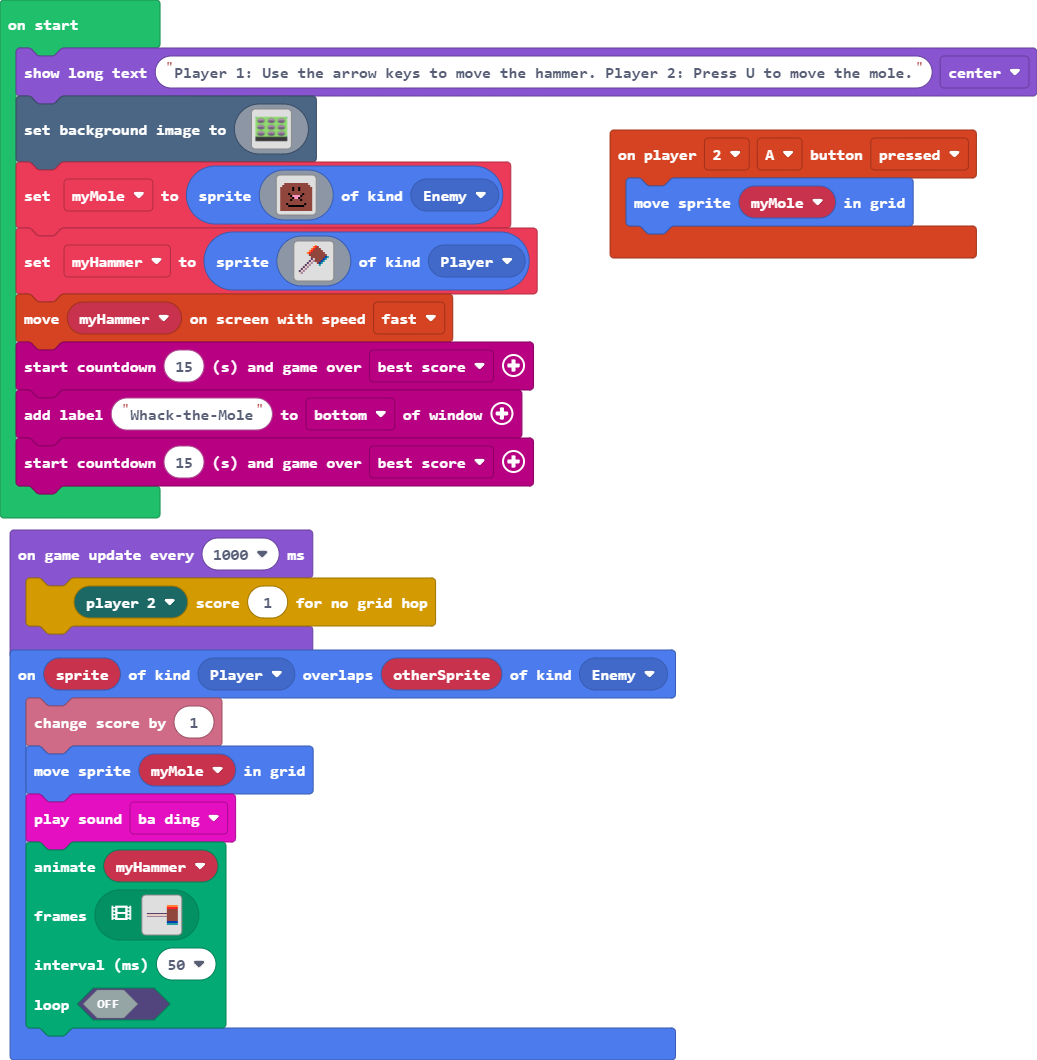
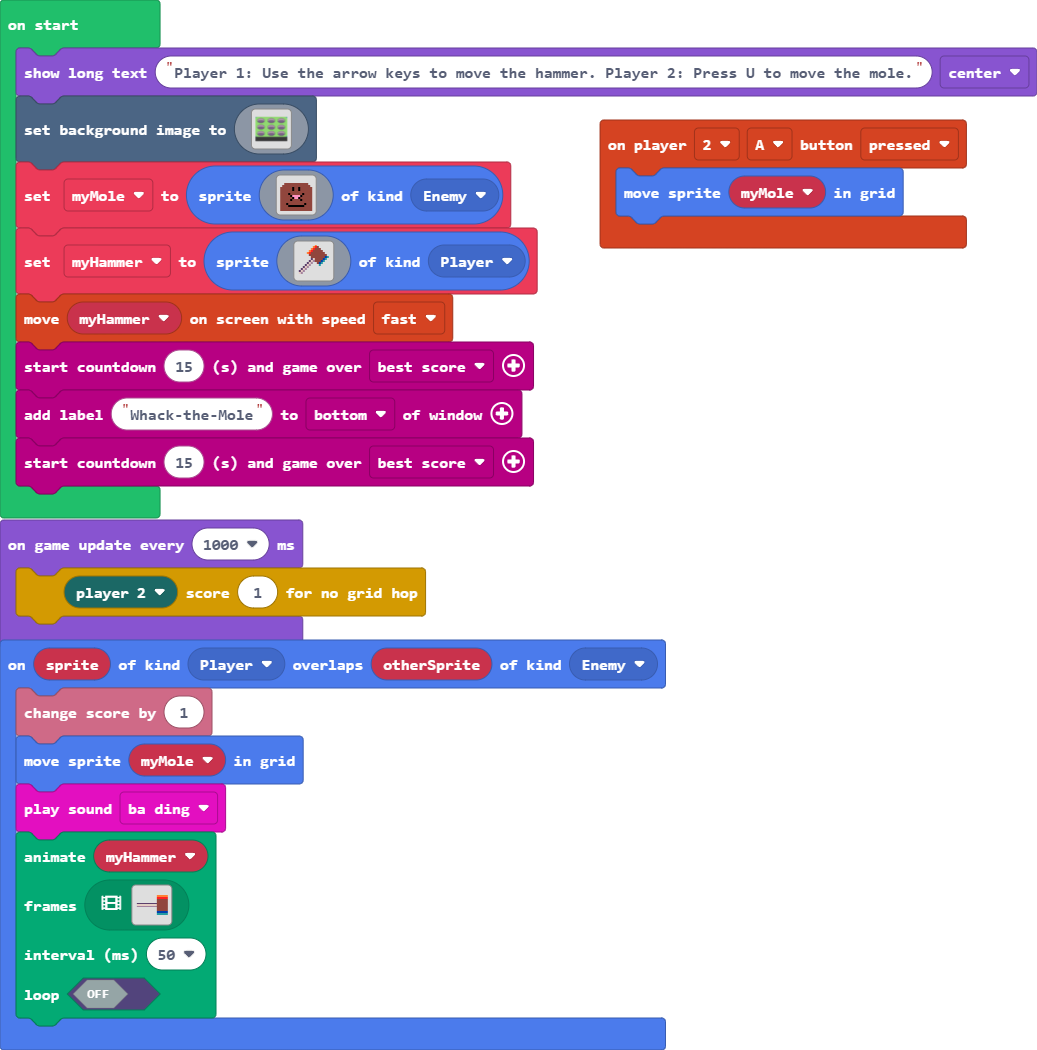
Update main.blocks, main.ts

Changed region(s): [[0.0, 0.0305, 0.9566, 1.0], [0.6172, 0.9752, 0.6789, 1.0], [0.9257, 0.061, 0.9566, 0.0914]]

diff --git a/main.ts b/main.ts
@@ -1,27 +1,30 @@
-controller.player2.onButtonEvent(ControllerButton.A, ControllerButtonEvent.Pressed, function () {
+controller.player2.onButtonEvent(ControllerButton.A, ControllerButtonEvent.Pressed, function on_player2_button_a_pressed() {
     simplified.moveToRandomHoleOnGrid(myMole)
 })
-sprites.onOverlap(SpriteKind.Player, SpriteKind.Enemy, function (sprite, otherSprite) {
+sprites.onOverlap(SpriteKind.Player, SpriteKind.Enemy, function on_on_overlap(sprite: Sprite, otherSprite: Sprite) {
     info.changeScoreBy(1)
     simplified.moveToRandomHoleOnGrid(myMole)
     music.baDing.play()
-    animation.runImageAnimation(
-    myHammer,
-    assets.animation`hammerAnimation`,
-    50,
-    false
-    )
+    animation.runImageAnimation(myHammer, assets.animation`
+            hammerAnimation
+        `, 50, false)
 })
-let myHammer: Sprite = null
-let myMole: Sprite = null
+let myHammer : Sprite = null
+let myMole : Sprite = null
 game.showLongText("Player 1: Use the arrow keys to move the hammer. Player 2: Press U to move the mole.", DialogLayout.Center)
-scene.setBackgroundImage(assets.image`grid`)
-myMole = sprites.create(assets.image`mole`, SpriteKind.Enemy)
-myHammer = sprites.create(assets.image`hammer`, SpriteKind.Player)
+scene.setBackgroundImage(assets.image`
+    grid
+`)
+myMole = sprites.create(assets.image`
+    mole
+`, SpriteKind.Enemy)
+myHammer = sprites.create(assets.image`
+    hammer
+`, SpriteKind.Player)
 simplified.moveOnlyOnscreenWithArrows(myHammer, simplified.Speeds.Fast)
 carnival.startCountdownGame(15, carnival.WinTypes.Score)
 carnival.addLabelTo("Whack-the-Mole", carnival.Areas.Bottom)
 carnival.startCountdownGame(15, carnival.WinTypes.Score)
-game.onUpdateInterval(1000, function () {
+game.onUpdateInterval(1000, function on_update_interval() {
     simplified.checkMoleEscape(mp.playerSelector(mp.PlayerNumber.Two), 1)
 })
